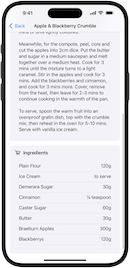
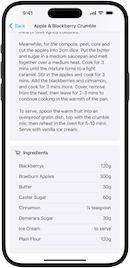
Sort ingredients

diff --git a/Dessertly/Views/DessertDetailView.swift b/Dessertly/Views/DessertDetailView.swift
@@ -103,7 +103,7 @@ struct DessertDetailView: View {
         if !ingredients.isEmpty {
             GroupBox(label: Label("Ingredients", systemImage: "cart")) {
                 VStack(alignment: .leading) {
-                    ForEach(ingredients.sorted(by: >), id: \.key) { ingredient, measure in
+                    ForEach(ingredients.sorted(by: { $0.key < $1.key }), id: \.key) { ingredient, measure in
                         HStack {
                             Text(ingredient)
                             Spacer()
